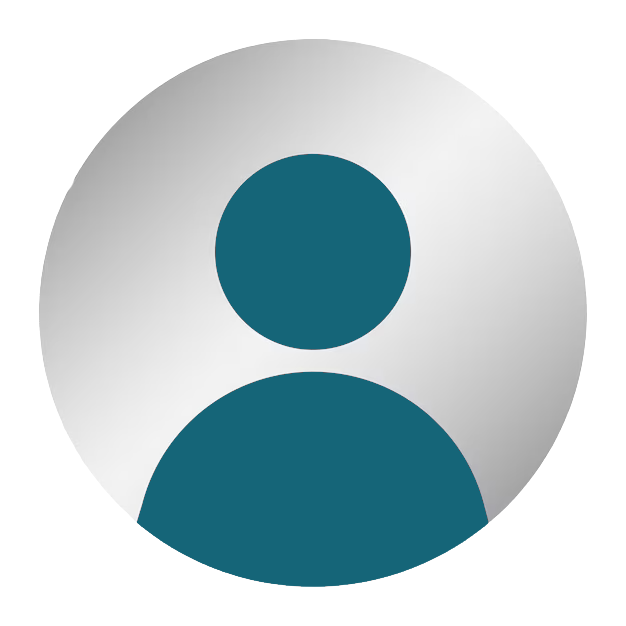
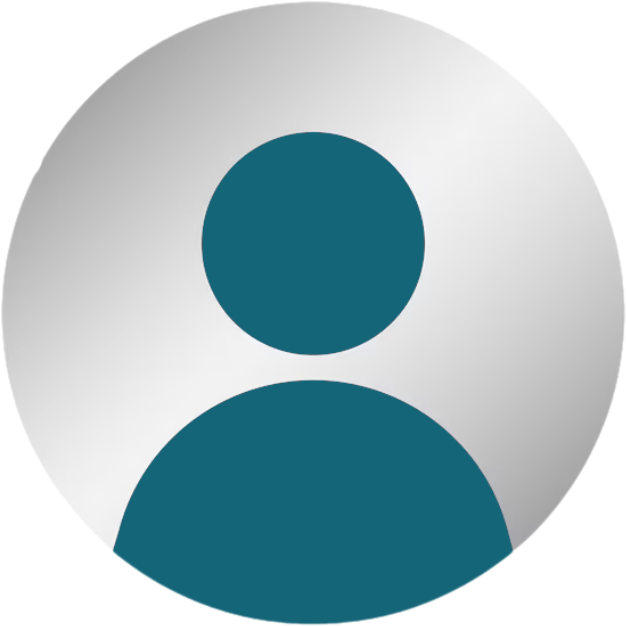
ajuste visualização do perfil genérico do usuário

diff --git a/src/app/sistema/servicos/lista-de-servicos/lista-de-servicos.component.css b/src/app/sistema/servicos/lista-de-servicos/lista-de-servicos.component.css
@@ -353,7 +353,7 @@ tr:hover {
   border-radius: 20px;
   gap: 8px;
   cursor: pointer;
-  padding: 0 8px;
+  padding: 5px 8px;
   transition: all 0.3s ease-in-out;
 }
 
@@ -364,14 +364,17 @@ tr:hover {
 }
 
 .user-photo{
-  margin: auto 0;
+  display: flex;
+  justify-content: center;
+  margin: 0;
 }
 
 .user-photo img{
-    margin: auto 0;
-    width: 125px;
-    height: 125px;
-    border-radius: 100px;
+  margin: 0;
+  width: 125px;
+  height: 125px;
+  border-radius: 100px;
+  border: 2px outset var(--info);
 }
 
 .rating { display:flex; align-items:center; gap:6px; }
